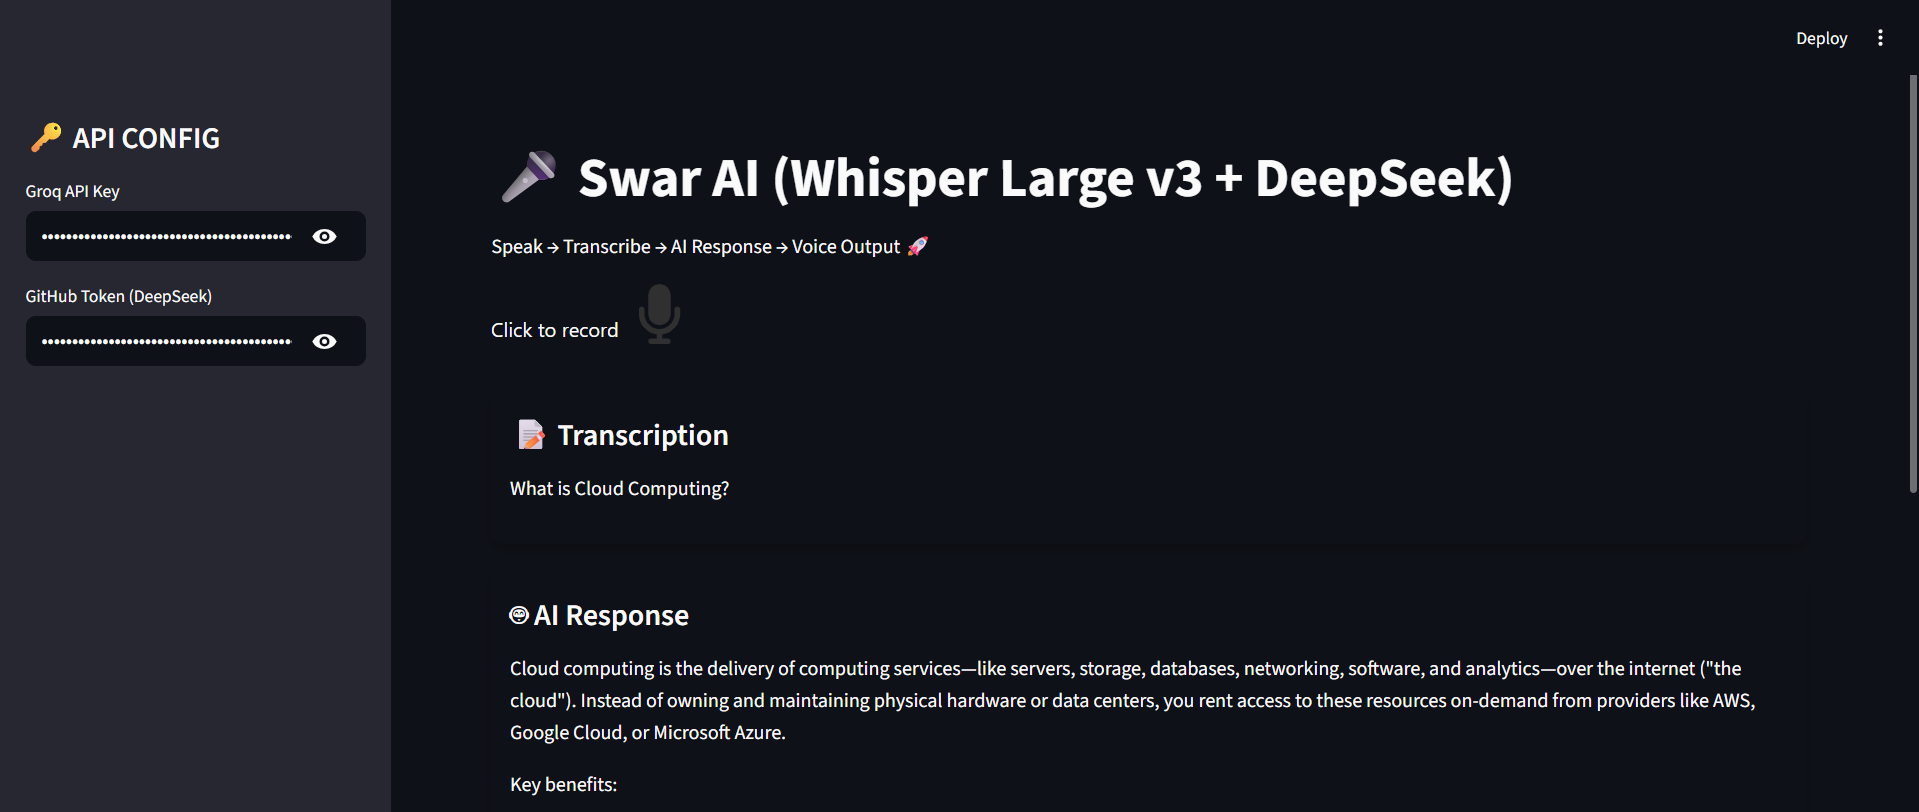
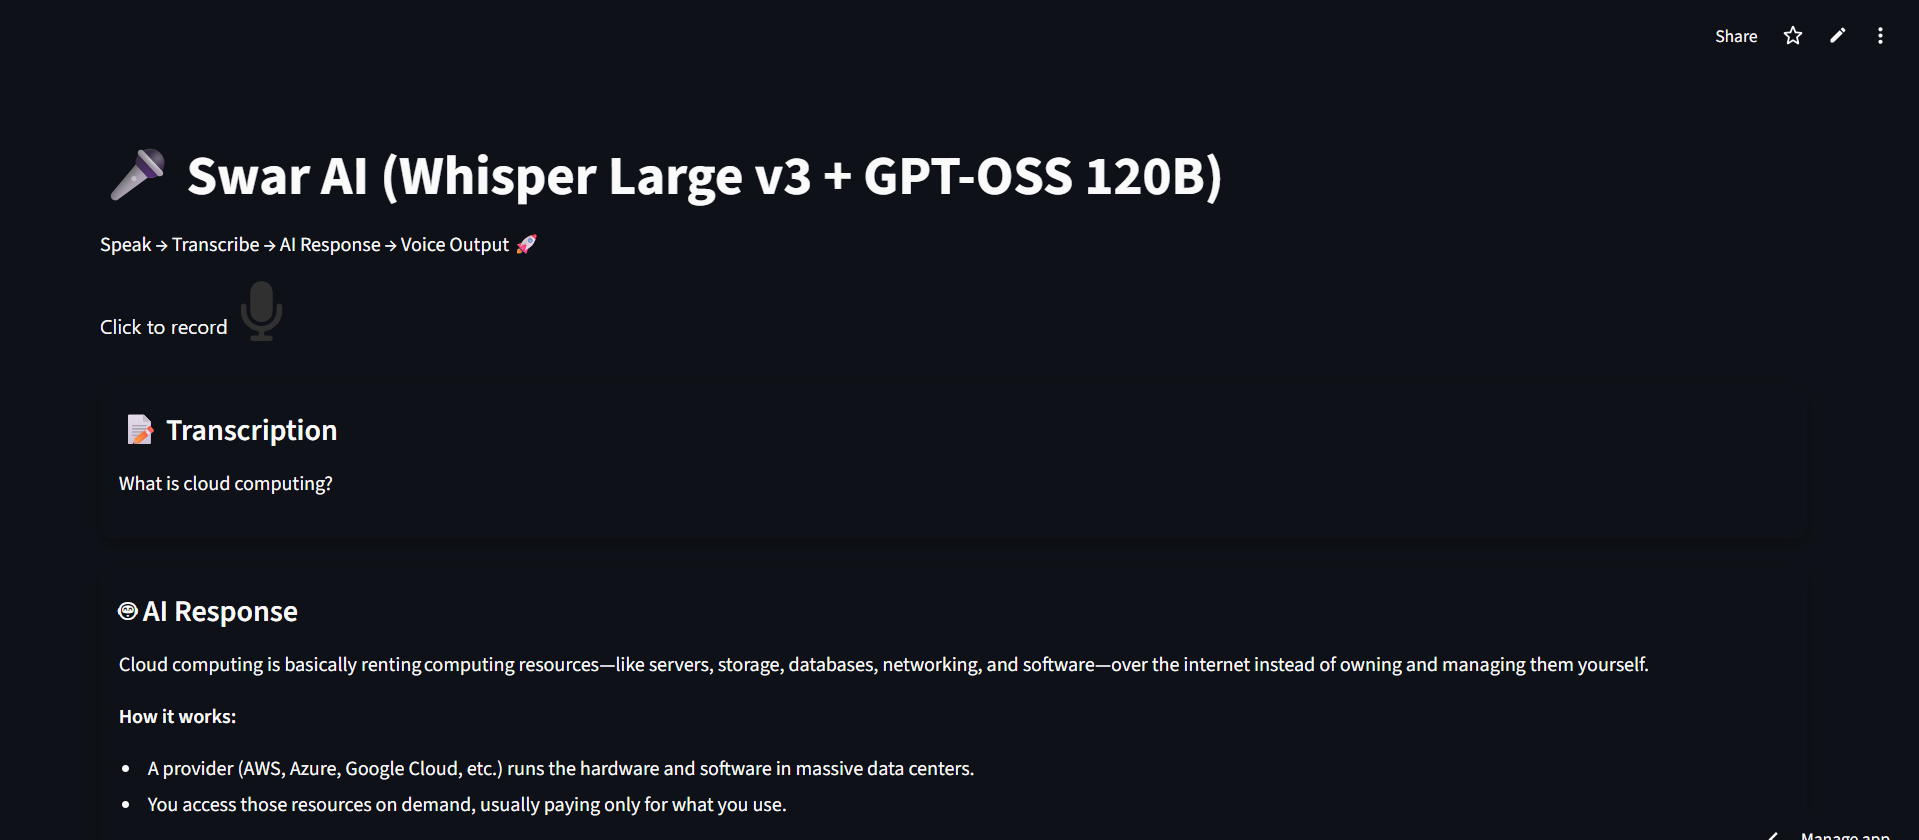
Update Readme

diff --git a/README.md b/README.md
@@ -1,23 +1,23 @@
 # 🎤 Swar AI - Voice Assistant
 
-A powerful voice-based AI assistant that transcribes speech, generates intelligent responses using DeepSeek, and converts them back to audio. Built with **Streamlit**, **Groq Whisper**, and **GitHub Models (DeepSeek)**.
+A powerful voice-based AI assistant that transcribes speech, generates intelligent responses, and converts them back to audio. Built with **Streamlit**, **Groq Whisper**, and **Groq's GPT-OSS 120B**.
 
 ---
 
 ## 🚀 Features
 
-✨ **Speech-to-Text**: Real-time audio transcription using Groq's Whisper Large V3 model  
-🧠 **AI-Powered Responses**: Intelligent conversational responses via DeepSeek-V3  
-🔊 **Text-to-Speech**: Automatic voice generation of AI responses using gTTS  
-🎙 **Voice Recording**: Built-in audio recorder directly in the web interface  
-📱 **Responsive UI**: Clean, modern interface with interactive cards  
-⚡ **Fast Processing**: Optimized for quick responses  
+✨ **Speech-to-Text**: Real-time audio transcription using Groq's Whisper Large V3 model
+🧠 **AI-Powered Responses**: Intelligent conversational responses via Groq's GPT-OSS 120B
+🔊 **Text-to-Speech**: Automatic voice generation of AI responses using gTTS
+🎙 **Voice Recording**: Built-in audio recorder directly in the web interface
+📱 **Responsive UI**: Clean, modern interface with interactive cards
+⚡ **Fast Processing**: Optimized for quick responses
 
 ---
 
 ## 🌐 Live Demo
 
-👉 Try the app here:  
+👉 Try the app here:
 🔗 [https://swar-ai.streamlit.app/](https://swar-ai.streamlit.app/)
 
 ---
@@ -28,7 +28,7 @@ A powerful voice-based AI assistant that transcribes speech, generates intellige
 |-----------|-----------|
 | **Frontend Framework** | Streamlit |
 | **Speech-to-Text** | Groq (Whisper Large V3) |
-| **LLM Model** | DeepSeek-V3 via GitHub Models |
+| **LLM Model** | GPT-OSS 120B via Groq |
 | **Text-to-Speech** | gTTS (Google Text-to-Speech) |
 | **Audio Recording** | audio-recorder-streamlit |
 | **Language** | Python 3.8+ |
@@ -40,8 +40,7 @@ A powerful voice-based AI assistant that transcribes speech, generates intellige
 Before running the app, ensure you have:
 
 - **Python 3.8 or higher**
-- **Groq API Key** 
-- **GitHub Token** (with access to GitHub Models) 
+- **Groq API Key** (used for both transcription and AI response generation)
 
 ---
 
@@ -69,15 +68,14 @@ source venv/bin/activate
 pip install -r requirements.txt
 ```
 
-### 4. Set Up API Keys
+### 4. Set Up API Key
 Create a `.streamlit/secrets.toml` file in your project directory:
 
 ```toml
-GROQ_API_KEY = "your-groq-api-key-here"
-GITHUB_TOKEN = "your-github-token-here"
+GROQ = "your-groq-api-key-here"
 ```
 
-*Alternatively*, enter your API keys directly in the sidebar when running the app.
+*Alternatively*, set it as an environment variable named `GROQ` before running the app.
 
 ---
 
@@ -92,9 +90,7 @@ The app will open at `http://localhost:8501/`
 
 ### How to Use
 
-1. **Enter API Keys** (if not using secrets.toml):
-   - Paste your Groq API Key
-   - Paste your GitHub Token
+1. **Set up your Groq API Key** (via secrets.toml or environment variable)
 
 2. **Record Audio**:
    - Click the microphone button to start recording
@@ -115,17 +111,13 @@ The app will open at `http://localhost:8501/`
 
 ---
 
-## 🔑 API Keys Required
+## 🔑 API Key Required
 
 ### Groq API Key
-- Purpose: Speech-to-Text (Whisper Large V3) and audio transcription
+- Purpose: Speech-to-Text (Whisper Large V3) **and** AI response generation (GPT-OSS 120B)
 - Get key: https://console.groq.com/
 - Free tier: ✅ Yes (with rate limits)
-
-### GitHub Token (for DeepSeek)
-- Purpose: Access DeepSeek-V3 model via GitHub Models
-- Get token: https://github.com/settings/tokens
-- Required permissions: `read:user` (minimum)
+- Secret name expected by the app: `GROQ`
 
 ---
 
@@ -136,7 +128,7 @@ The app uses the following default settings:
 | Setting | Value | Description |
 |---------|-------|-----------|
 | **Transcription Model** | whisper-large-v3 | Latest Whisper model for high accuracy |
-| **LLM Model** | DeepSeek-V3 | State-of-the-art reasoning model |
+| **LLM Model** | openai/gpt-oss-120b | Served via Groq for fast inference |
 | **Temperature** | 0.7 | Balance between creativity and coherence |
 | **Max Tokens** | 1024 | Maximum response length |
 | **Top-P** | 0.9 | Nucleus sampling for diversity |
@@ -145,11 +137,11 @@ The app uses the following default settings:
 
 ## 🛠 Troubleshooting
 
-### Issue: "Invalid API Key" Error
-**Solution**: Double-check your API keys are correct and have been copied fully without extra spaces.
+### Issue: "GROQ key not found" Error
+**Solution**: Make sure you've added `GROQ = "your-key"` to `.streamlit/secrets.toml`, or set a `GROQ` environment variable before launching the app.
 
 ### Issue: "No speech detected" Warning
-**Solution**: 
+**Solution**:
 - Ensure your microphone works properly
 - Speak clearly and loudly
 - Check microphone permissions in browser
@@ -166,10 +158,10 @@ The app uses the following default settings:
 - Check if audio was generated without errors
 - Try refreshing the page
 
-### Issue: "Connection Error" to Groq/GitHub
+### Issue: "Connection Error" to Groq
 **Solution**:
 - Check your internet connection
-- Verify API keys are valid and not revoked
+- Verify your API key is valid and not revoked
 - Wait a few minutes if hitting rate limits
 
 ---
@@ -182,8 +174,6 @@ Create `requirements.txt`:
 streamlit
 audio-recorder-streamlit
 groq
-azure-ai-inference
-azure-core
 gtts
 ```
 
@@ -214,10 +204,9 @@ git push origin main
 3. **Add Secrets**:
    - In Streamlit Cloud dashboard
    - Go to Settings → Secrets
-   - Add your API keys:
+   - Add your API key:
    ```
-   GROQ_API_KEY = "your-key"
-   GITHUB_TOKEN = "your-token"
+   GROQ = "your-key"
    ```
 
 ---
@@ -248,8 +237,8 @@ git push origin main
        │
        ▼
 ┌──────────────────┐
-│ DeepSeek-V3      │
-│ (AI Response)    │
+│ GPT-OSS 120B     │
+│ (via Groq)       │
 └──────┬───────────┘
        │
        ▼
@@ -272,7 +261,7 @@ git push origin main
 - **Microphone Quality**: Use a good quality microphone for better transcription
 - **Clear Speech**: Speak naturally but clearly for accurate transcription
 - **Quiet Environment**: Reduce background noise for better results
-- **API Rate Limits**: Be aware of rate limits on free Groq and GitHub Models tiers
+- **API Rate Limits**: Be aware of rate limits on the free Groq tier
 - **Response Length**: Keep prompts concise for faster responses
 
 ---
@@ -291,8 +280,6 @@ Contributions are welcome! Feel free to:
 
 - 📖 **Streamlit Docs**: https://docs.streamlit.io/
 - 🤖 **Groq Documentation**: https://console.groq.com/docs
-- 🧠 **DeepSeek Model**: https://deepseek.com/
-- 🎙 **GitHub Models**: https://github.com/marketplace/models
 
 ---
 
@@ -302,9 +289,8 @@ Contributions are welcome! Feel free to:
 **A**: Yes! You can modify the `text_to_audio()` function to use Azure Speech, Eleven Labs, or other services.
 
 ### Q: Is there a cost to use this app?
-**A**: 
+**A**:
 - Groq: Free tier available (with rate limits)
-- GitHub Models: Free tier available
 - gTTS: Free
 - Streamlit Cloud: Free tier available
 
@@ -312,10 +298,10 @@ Contributions are welcome! Feel free to:
 **A**: Yes! You can deploy it on your own server using Docker or any Python hosting service.
 
 ### Q: Does it work offline?
-**A**: No, it requires internet connection for Groq and GitHub Model API calls.
+**A**: No, it requires an internet connection for Groq API calls.
 
 ### Q: What languages are supported?
-**A**: Whisper supports 99+ languages. gTTS supports 100+ languages. Configure in the code as needed.
+**A**: Whisper supports 99+ languages. gTTS supports 100+ languages. Configure in the code as needed (currently set to English by default).
 
 ---
 
@@ -323,9 +309,9 @@ Contributions are welcome! Feel free to:
 
 If you encounter issues:
 1. Check the **Troubleshooting** section above
-2. Review API documentation for Groq and GitHub Models
+2. Review Groq's API documentation
 3. Check Streamlit documentation: https://docs.streamlit.io/
 
 ---
 
-**Made with ❤ using Streamlit, Groq, and DeepSeek**
+**Made with ❤ using Streamlit and Groq**
